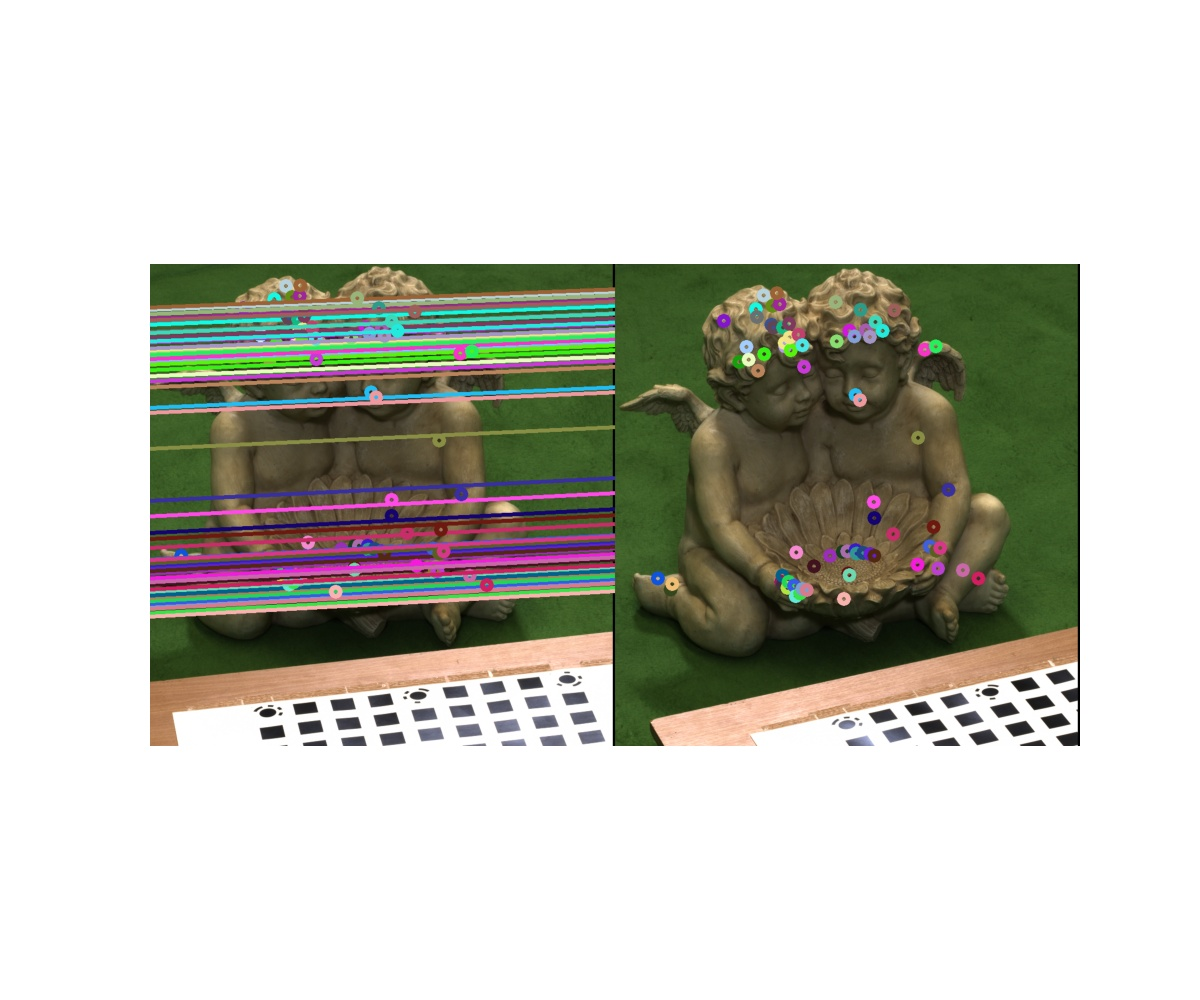
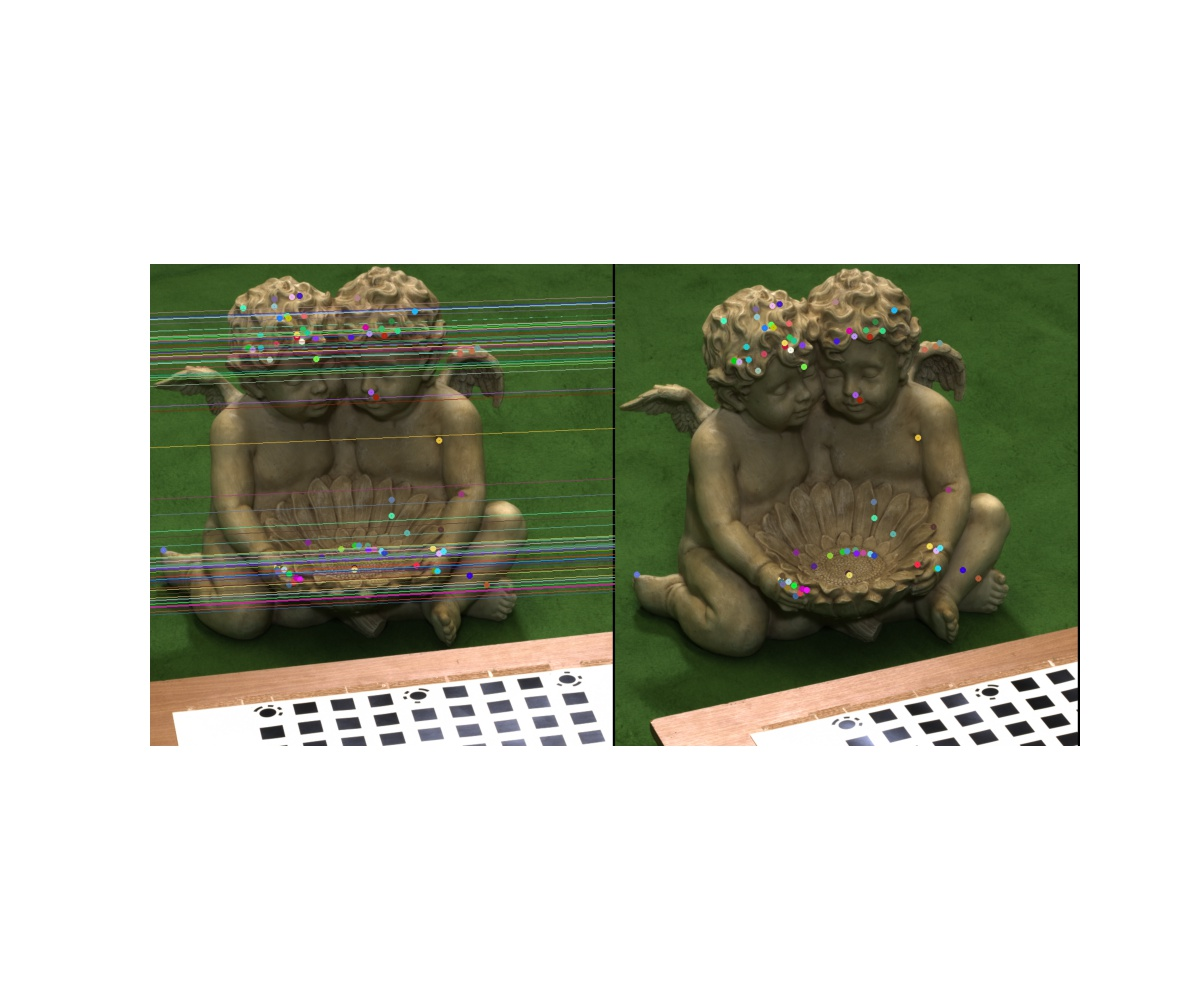
finish parameter tuning

diff --git a/HW4/SfM.py b/HW4/SfM.py
@@ -7,18 +7,21 @@ import glob
 
 
 parser = argparse.ArgumentParser()
-parser.add_argument("--img", type=str, default="books", help="Which set of image do you use")
+parser.add_argument("--img", type=str, default="books",
+                    help="Which set of image do you use")
 parser.add_argument(
-    "--ratio", type=float, default=0.4, help="the ratio for ratio test used for finding good feature matching"
+    "--ratio", type=float, default=0.2, help="the ratio for ratio test used for finding good feature matching"
 )
-parser.add_argument("--iter", type=int, default=3000, help="the total interations for the RANSAC algorithm to run")
+parser.add_argument("--iter", type=int, default=3000,
+                    help="the total interations for the RANSAC algorithm to run")
 parser.add_argument(
-    "--threshold", type=float, default=0.06, help="the threshold for RANSAC finding the best fundamental matrix"
+    "--threshold", type=float, default=0.025, help="the threshold for RANSAC finding the best fundamental matrix"
 )
 args = parser.parse_args()
 
-# python SfM.py --img Mesona --ratio 0.4 --iter 1000 --threshold 0.025
+# python SfM.py --img Mesona --ratio 0.35 --iter 1000 --threshold 0.025
 # python SfM.py --img Statue --ratio 0.4 --iter 1000 --threshold 0.025
+# python SfM.py --img books --ratio 0.2 --iter 3000 --threshold 0.025
 
 
 DATA_PATH = "./data/"
@@ -57,7 +60,8 @@ def camera_calibration():
 
         # Find the chessboard corners
         print("find the chessboard corners of", fname)
-        ret, corners = cv2.findChessboardCorners(gray, (corner_x, corner_y), None)
+        ret, corners = cv2.findChessboardCorners(
+            gray, (corner_x, corner_y), None)
 
         # If found, add object points, image points
         if ret == True:
@@ -72,7 +76,8 @@ def camera_calibration():
     # You need to comment these functions and write your calibration function from scratch.
     # Notice that rvecs is rotation vector, not the rotation matrix, and tvecs is translation vector.
     # In practice, you'll derive extrinsics matrixes directly. The shape must be [pts_num,3,4], and use them to plot.
-    ret, mtx, dist, rvecs, tvecs = cv2.calibrateCamera(objpoints, imgpoints, img_size, None, None)
+    ret, mtx, dist, rvecs, tvecs = cv2.calibrateCamera(
+        objpoints, imgpoints, img_size, None, None)
 
     return mtx
 
@@ -83,10 +88,12 @@ def read_intrinsic():
         K2 = K1
     elif args.img == "Statue":
         K1 = np.array(
-            [5426.566895, 0.678017, 330.096680, 0.000000, 5423.133301, 648.950012, 0.000000, 0.000000, 1.000000]
+            [5426.566895, 0.678017, 330.096680, 0.000000,
+                5423.133301, 648.950012, 0.000000, 0.000000, 1.000000]
         )
         K2 = np.array(
-            [5426.566895, 0.678017, 387.430023, 0.000000, 5423.133301, 620.616699, 0.000000, 0.000000, 1.000000]
+            [5426.566895, 0.678017, 387.430023, 0.000000,
+                5423.133301, 620.616699, 0.000000, 0.000000, 1.000000]
         )
     elif args.img == "books":
         intrinsic = camera_calibration()
@@ -154,9 +161,9 @@ def draw_matching(kp1, kp2, img1, img2):
         y2 = int(coor2[1])
 
         # draw circle on matching points and line between them
-        match_img = cv2.circle(match_img, (x1, y1), 5, color, 4)
-        match_img = cv2.circle(match_img, (x2, y2), 5, color, 4)
-        match_img = cv2.line(match_img, (x1, y1), (x2, y2), color, 4)
+        match_img = cv2.circle(match_img, (x1, y1), 3, color, 3)
+        match_img = cv2.circle(match_img, (x2, y2), 3, color, 3)
+        match_img = cv2.line(match_img, (x1, y1), (x2, y2), color, 1)
 
     return match_img
 
@@ -213,7 +220,8 @@ def get_normalize_x_x_prime(correspondence, rand_choice):
     # normalize x'
     x_prime_mean = np.mean(x_prime, axis=1)
     S_prime = np.sqrt(2) / np.std(x_prime[:2])
-    T_prime = np.array([[S_prime, 0, -S_prime * x_prime_mean[0]], [0, S_prime, -S_prime * x_prime_mean[1]], [0, 0, 1]])
+    T_prime = np.array([[S_prime, 0, -S_prime * x_prime_mean[0]],
+                       [0, S_prime, -S_prime * x_prime_mean[1]], [0, 0, 1]])
     x_prime = T_prime @ x_prime
     x = x.T
     x_prime = x_prime.T
@@ -276,7 +284,8 @@ def estimate_fundamental_mat(correspondence):
     for i in range(args.iter):
         rand_choice = list(np.random.random(size=8) * correspondence.shape[0])
         rand_choice = list(map(int, rand_choice))
-        x, x_prime, T, T_prime = get_normalize_x_x_prime(correspondence, rand_choice)
+        x, x_prime, T, T_prime = get_normalize_x_x_prime(
+            correspondence, rand_choice)
         F = eight_p_algorithm(x, x_prime, T, T_prime)
         errors = Sampson_err(correspondence, F)
         inlier = 0
@@ -316,9 +325,9 @@ def draw_epipolar_line(img1, img2, correspondence, F):
         pt2 = tuple(map(int, pt2))
         x0, y0 = map(int, [0, -h[2] / h[1]])
         x1, y1 = map(int, [w, -(h[2] + h[0] * w) / h[1]])
-        img1 = cv2.line(img1, (x0, y0), (x1, y1), color, 4)
-        img1 = cv2.circle(img1, tuple(pt1), 6, color, 6)
-        img2 = cv2.circle(img2, tuple(pt2), 6, color, 6)
+        img1 = cv2.line(img1, (x0, y0), (x1, y1), color, 1)
+        img1 = cv2.circle(img1, tuple(pt1), 3, color, 3)
+        img2 = cv2.circle(img2, tuple(pt2), 3, color, 3)
 
     epipole_img = np.concatenate((img1, img2), axis=1)
     epipole_img = cv2.cvtColor(epipole_img, cv2.COLOR_BGR2RGB)
@@ -337,8 +346,8 @@ def select_img():
         img1_name = "Statue1.bmp"
         img2_name = "Statue2.bmp"
     elif args.img == "books":
-        img1_name = "books1.jpeg"
-        img2_name = "books2.jpeg"
+        img1_name = "books1.jpg"
+        img2_name = "books2.jpg"
 
     return img1_name, img2_name
 

diff --git a/HW4/README.md b/HW4/README.md
@@ -21,7 +21,7 @@ conda activate sfm
 If you have your own pair data please name them the same and separate them by "1" and "2" at the end of the name. and put them in the "data" folder. And also if you don't have the intrinsic matrix of your own data, you should take some pictures in the checkerboard and put it in the "checkerboards" folder for camera calibration.
 
 ```
-python SfM.py --img books --iter 1000 --ratio 0.4 --threshold 0.025
+python SfM.py --img books --ratio 0.2 --iter 3000 --threshold 0.025
 ```
 
 ## Results
